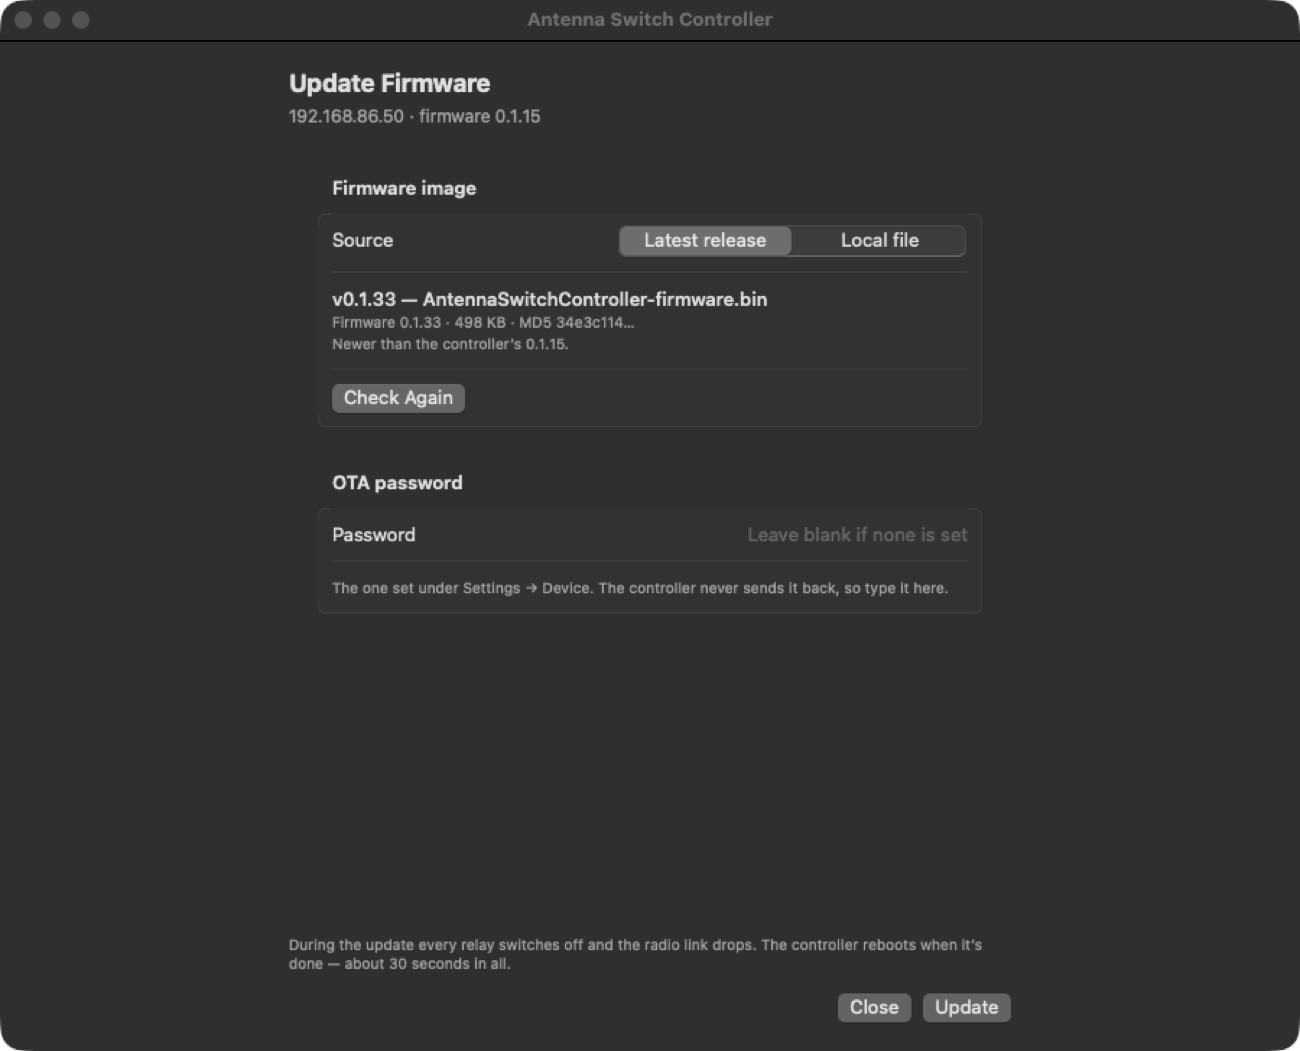
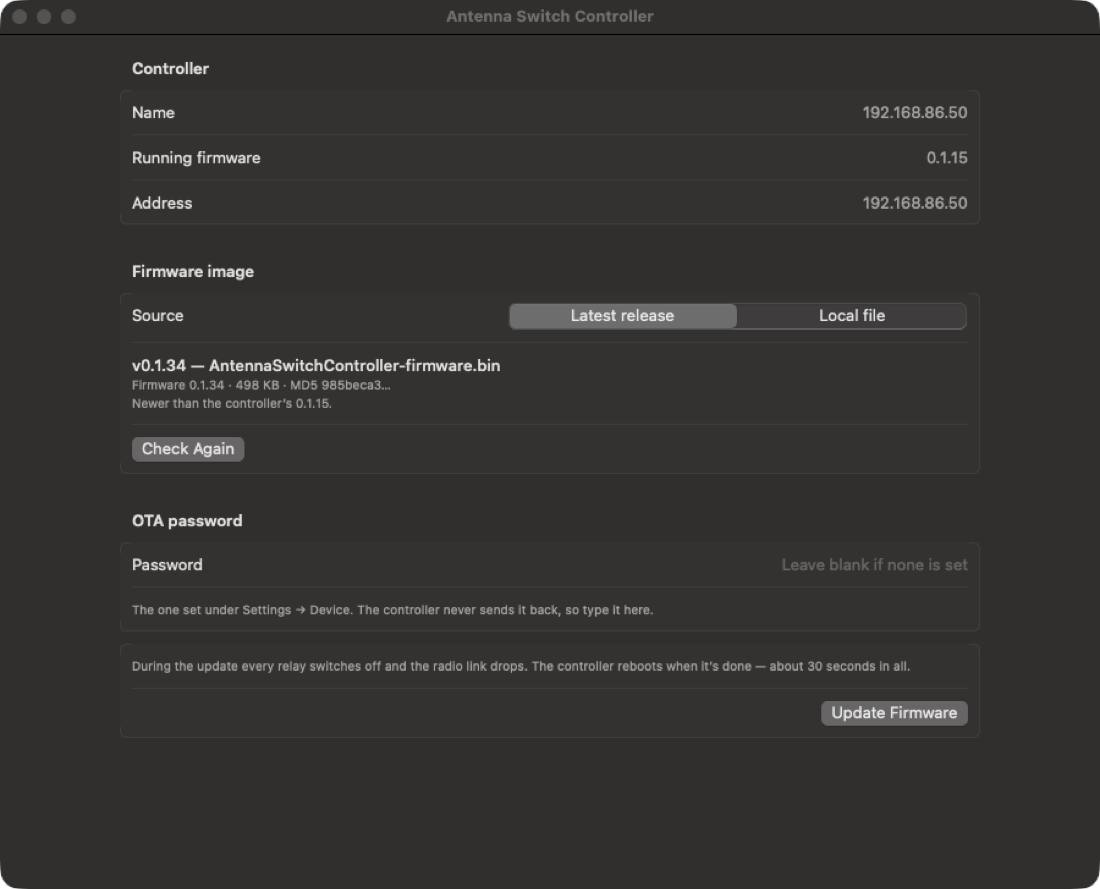
app: Firmware tab for the suite; plugin version follows the app
Firmware update reachable in the Amateur Radio Suite
- v0.1.34 put "Update Firmware…" in the window toolbar, but the suite hosts the
  plugin out-of-process inside its own window and does not show plugin toolbar
  items. It is now a Firmware tab (Dashboard / Controls / Settings / Firmware)
  in both the suite and the standalone app; no toolbar or sheet dependency.
- ControllerDetailView owns the FirmwareUpdateModel so an update in progress
  survives tab switches.

Plugin version follows the app version
- The .appex always reported 1.0 (XcodeGen wrote a literal CFBundle version)
  and plugin.json 1.0.0, so the suite's plugin list and update check never saw
  the real release.
- New scripts/version.sh is the single source (release VERSION, else latest
  git tag, else 0.0.0-dev), sourced by build-app.sh, package-signed.sh and
  make-radioplugin.sh. project.yml maps CFBundleShortVersionString /
  CFBundleVersion to MARKETING_VERSION / CURRENT_PROJECT_VERSION; plugin.json
  uses a __VERSION__ placeholder; release.yml passes VERSION to the
  .radioplugin step.
- Builds fail on any mismatch: the .radioplugin checks its .appex and
  plugin.json, package-signed checks the app == embedded .appex.

diff --git a/App/Sources/AntennaSwitchController/Views/FirmwareUpdateView.swift b/App/Sources/AntennaSwitchController/Views/FirmwareUpdateView.swift
@@ -2,70 +2,56 @@ import SwiftUI
 import UniformTypeIdentifiers
 import RadioPluginUI
 
-/// Sheet that updates a controller's firmware over the air (ArduinoOTA), from the
-/// latest GitHub release or a local `.bin`.
+/// Firmware tab: updates the controller's firmware over the air (ArduinoOTA), from
+/// the latest GitHub release or a local `.bin`. Lives in the detail pane's TabView
+/// (not a toolbar sheet) so it is reachable when the suite hosts the plugin.
 struct FirmwareUpdateView: View {
-    @StateObject private var model: FirmwareUpdateModel
-    @Environment(\.dismiss) private var dismiss
+    @ObservedObject var model: FirmwareUpdateModel
     @State private var importing = false
 
     private static let binTypes = [UTType(filenameExtension: "bin", conformingTo: .data) ?? .data]
 
-    init(controller: ControllerViewModel) {
-        _model = StateObject(wrappedValue: FirmwareUpdateModel(controller: controller))
-    }
-
     var body: some View {
-        VStack(alignment: .leading, spacing: 14) {
-            header
-            Form {
-                Section("Firmware image") {
-                    Picker("Source", selection: $model.source) {
-                        ForEach(FirmwareUpdateModel.Source.allCases) { Text($0.rawValue).tag($0) }
-                    }
-                    .pickerStyle(.segmented)
-                    sourceDetail
-                }
-                Section("OTA password") {
-                    SecureField("Password", text: $model.password, prompt: Text("Leave blank if none is set"))
-                    Text("The one set under Settings → Device. The controller never sends it back, so type it here.")
-                        .font(.caption).foregroundStyle(.secondary)
-                }
+        Form {
+            Section("Controller") {
+                LabeledContent("Name", value: model.controller.displayName)
+                LabeledContent("Running firmware", value: model.deviceVersion ?? "unknown")
+                LabeledContent("Address", value: model.target)
             }
-            .formStyle(.grouped)
+
+            Section("Firmware image") {
+                Picker("Source", selection: $model.source) {
+                    ForEach(FirmwareUpdateModel.Source.allCases) { Text($0.rawValue).tag($0) }
+                }
+                .pickerStyle(.segmented)
+                sourceDetail
+            }
             .disabled(model.isUpdating)
 
-            statusArea
-            buttons
+            Section("OTA password") {
+                SecureField("Password", text: $model.password, prompt: Text("Leave blank if none is set"))
+                Text("The one set under Settings → Device. The controller never sends it back, so type it here.")
+                    .font(.caption).foregroundStyle(.secondary)
+            }
+            .disabled(model.isUpdating)
+
+            Section {
+                statusArea
+                buttons
+            }
         }
-        .padding(20)
-        .frame(width: 540)
+        .formStyle(.grouped)
         .fileImporter(isPresented: $importing, allowedContentTypes: Self.binTypes) { result in
             switch result {
             case .success(let url): model.loadFile(url)
             case .failure(let error): model.fileImportFailed(error)
             }
         }
-        .interactiveDismissDisabled(model.isUpdating)
         .onAppear { model.prepare() }
         .onChange(of: model.source) { _, _ in model.prepare() }
     }
 
     // MARK: - Sections
-
-    private var header: some View {
-        VStack(alignment: .leading, spacing: 4) {
-            Text("Update Firmware").font(.title2.bold())
-            Text(subtitle).font(.callout).foregroundStyle(.secondary)
-        }
-    }
-
-    private var subtitle: String {
-        let name = model.controller.displayName
-        let parts = [name, "firmware \(model.deviceVersion ?? "unknown")"]
-            + (name == model.target ? [] : [model.target])
-        return parts.joined(separator: " · ")
-    }
 
     @ViewBuilder private var sourceDetail: some View {
         switch model.source {
@@ -166,20 +152,11 @@ struct FirmwareUpdateView: View {
             if model.isUpdating {
                 Button("Cancel", role: .cancel) { model.cancel() }
             } else {
-                Button(isFinished ? "Done" : "Close") { dismiss() }
-                    .keyboardShortcut(isFinished ? .defaultAction : .cancelAction)
-                if !isFinished {
-                    Button("Update") { model.startUpdate() }
-                        .keyboardShortcut(.defaultAction)
-                        .disabled(model.blockReason != nil || model.isBusy)
-                }
+                Button("Update Firmware") { model.startUpdate() }
+                    .keyboardShortcut(.defaultAction)
+                    .disabled(model.blockReason != nil || model.isBusy)
             }
         }
-    }
-
-    private var isFinished: Bool {
-        if case .succeeded = model.stage { return true }
-        return false
     }
 
     private static func bytes(_ n: Int) -> String {

diff --git a/App/Sources/AntennaSwitchController/Views/ControllerDetailView.swift b/App/Sources/AntennaSwitchController/Views/ControllerDetailView.swift
@@ -1,20 +1,27 @@
 import SwiftUI
 import RadioPluginUI
 
-/// Detail pane for one controller: Dashboard / Controls / Settings tabs, plus
-/// toolbar actions (open web portal, firmware update, reboot). Owns the polling
-/// view model.
+/// Detail pane for one controller: Dashboard / Controls / Settings / Firmware tabs,
+/// plus toolbar actions (open web portal, reboot). Owns the polling view model.
+///
+/// Anything the operator must reach in the Amateur Radio Suite belongs in a tab,
+/// not the toolbar: the suite hosts this view out-of-process (ExtensionKit) inside
+/// its own window, and plugin toolbar items are not shown there.
 struct ControllerDetailView: View {
     let controller: Controller
     @EnvironmentObject private var store: ControllersStore
     @StateObject private var vm: ControllerViewModel
+    /// Owned here (not by the tab) so an update in progress survives tab switches.
+    @StateObject private var firmware: FirmwareUpdateModel
     @State private var confirmReboot = false
-    @State private var showFirmwareUpdate = false
 
     init(controller: Controller) {
         self.controller = controller
-        _vm = StateObject(wrappedValue: ControllerViewModel(host: controller.address,
-                                                            name: controller.name))
+        // Both autoclosures run once, together, when the view is first installed,
+        // so the firmware model always drives this view's own `vm`.
+        let vm = ControllerViewModel(host: controller.address, name: controller.name)
+        _vm = StateObject(wrappedValue: vm)
+        _firmware = StateObject(wrappedValue: FirmwareUpdateModel(controller: vm))
     }
 
     var body: some View {
@@ -23,6 +30,8 @@ struct ControllerDetailView: View {
             ControlsView(vm: vm).tabItem { Label("Controls", systemImage: "dial.medium") }
             SettingsView(vm: vm, discoveredMasters: store.discovered)
                 .tabItem { Label("Settings", systemImage: "gearshape") }
+            FirmwareUpdateView(model: firmware)
+                .tabItem { Label("Firmware", systemImage: "arrow.down.circle") }
         }
         .navigationTitle(controller.name)
         .navigationSubtitle(controller.address)
@@ -34,16 +43,9 @@ struct ControllerDetailView: View {
                 Button { vm.openWeb() } label: { Label("Open Web Portal", systemImage: "safari") }
             }
             ToolbarItem {
-                Button { showFirmwareUpdate = true } label: {
-                    Label("Update Firmware…", systemImage: "arrow.down.circle")
-                }
-                .help("Update the controller’s firmware over WiFi (OTA)")
-            }
-            ToolbarItem {
                 Button { confirmReboot = true } label: { Label("Reboot", systemImage: "arrow.clockwise.circle") }
             }
         }
-        .sheet(isPresented: $showFirmwareUpdate) { FirmwareUpdateView(controller: vm) }
         .confirmationDialog("Reboot \(controller.name)?", isPresented: $confirmReboot, titleVisibility: .visible) {
             Button("Reboot", role: .destructive) { Task { await vm.reboot() } }
             Button("Cancel", role: .cancel) {}

diff --git a/App/Sources/AntennaSwitchController/App.swift b/App/Sources/AntennaSwitchController/App.swift
@@ -50,7 +50,7 @@ public struct AntennaSwitchStandaloneApp: App {
         switch pane {
         case "controls":  ControlsView(vm: vm)
         case "dashboard": DashboardView(vm: vm)
-        case "firmware":  FirmwareUpdateView(controller: vm)
+        case "firmware":  FirmwareDemoPane(vm: vm)
         default:          SettingsView(vm: vm)
         }
     }
@@ -61,4 +61,11 @@ public struct AntennaSwitchStandaloneApp: App {
 /// no way to reopen one), so the Dock icon becomes unresponsive.
 final class AppDelegate: NSObject, NSApplicationDelegate {
     func applicationShouldTerminateAfterLastWindowClosed(_ sender: NSApplication) -> Bool { true }
+}
+
+/// `ASC_DEMO=firmware`: the Firmware tab with its own long-lived model.
+private struct FirmwareDemoPane: View {
+    @StateObject private var model: FirmwareUpdateModel
+    init(vm: ControllerViewModel) { _model = StateObject(wrappedValue: FirmwareUpdateModel(controller: vm)) }
+    var body: some View { FirmwareUpdateView(model: model) }
 }

diff --git a/App/Sources/AntennaSwitchController/AntennaSwitchPlugin.swift b/App/Sources/AntennaSwitchController/AntennaSwitchPlugin.swift
@@ -15,6 +15,9 @@ public final class AntennaSwitchPlugin: RadioPlugin, PluginHostBridge {
     public static let manifest: RadioPluginManifest? = RadioPluginManifest(
         id: "antsw",
         name: "Antenna Switch",
+        // In-process manifest only (code linked into a host has no bundle of its own
+        // to read a version from). The suite loads the out-of-process .appex, whose
+        // Info.plist + plugin.json carry the release version (scripts/version.sh).
         version: "1.0",
         isolation: .inProcess,                              // first-party, linked into the host
         capabilities: [.networkClient, .bonjour, .notifications],

diff --git a/CLAUDE.md b/CLAUDE.md
@@ -152,7 +152,7 @@ at power-up, and SHOULD prefer GPIO14/12/13/4/5 for the most-used bands.
 
 - **R4.1** After the initial USB flash, the firmware SHALL support **OTA updates
   via ArduinoOTA over WiFi / mDNS** (STA mode only). Clients: `espota.py` /
-  `arduino-cli`, and the macOS app's **Update Firmware…** (same protocol, Part 2).
+  `arduino-cli`, and the macOS app's **Firmware** tab (same protocol, Part 2).
 - **R4.2** The OTA password SHALL be configurable (default empty), settable in
   the web UI; changes take effect after reboot without USB.
 - **R4.3** During an OTA update the firmware SHALL force the **safe state (all
@@ -287,6 +287,15 @@ Controllers. Mirrors the conventions of `VU3ESV/BandPassFilterControllerApp`.
   library product too) compiles the shared target under universal builds.
 - Depends on `RadioPluginKit` by **Git URL `from: "1.0.0"`** (same as the suite,
   so the whole graph resolves one identical RadioPluginKit — no path/URL clash).
+- **One version for app and plugin.** `App/scripts/version.sh` (release `VERSION`,
+  else the latest git tag, else `0.0.0-dev`) is sourced by `build-app.sh`,
+  `scripts/package-signed.sh` and `scripts/make-radioplugin.sh`. The `.appex`
+  Info.plist takes it via `$(MARKETING_VERSION)` / `$(CURRENT_PROJECT_VERSION)`
+  (project.yml), and `plugin.json` via its `__VERSION__` placeholder. The suite
+  reads a plugin's version from `plugin.json` (plugin list + update check), and
+  pluginkit reads it from the Info.plist. Both scripts fail on a mismatch. Never
+  hardcode a version in `plugin.json` or project.yml. The Swift
+  `AntennaSwitchPlugin.manifest` version is in-process only; the suite doesn't use it.
 
 ## Layout (`App/Sources/AntennaSwitchController/`)
 - `Models/` — `Band` (index order matches firmware), `Controller` (saved device,
@@ -303,8 +312,9 @@ Controllers. Mirrors the conventions of `VU3ESV/BandPassFilterControllerApp`.
   and `FirmwareUpdateModel` (one OTA update: image source → upload → reboot check).
 - `Views/` — `ContentView` (NavigationSplitView + sidebar + add-by-IP sheet),
   `ControllerDetailView` (Dashboard/Controls/Settings tabs, fresh VM per
-  selection via `.id`; toolbar: web portal, **Update Firmware…**, reboot),
-  `DashboardView`, `ControlsView`, `SettingsView`, `FirmwareUpdateView` (sheet).
+  selection via `.id`; owns the `FirmwareUpdateModel`; toolbar: web portal,
+  reboot), `DashboardView`, `ControlsView`, `SettingsView`, `FirmwareUpdateView`
+  (the **Firmware** tab).
 - `Snapshot.swift` + `ASC_DEMO` window mode — offscreen/demo rendering for the
   documentation screenshots only; not used at runtime.
 
@@ -317,6 +327,12 @@ Controllers. Mirrors the conventions of `VU3ESV/BandPassFilterControllerApp`.
   back and are only sent when the operator types a new value (blank = keep).
 - `NSLocalNetworkUsageDescription` + `NSBonjourServices` in `Resources/Info.plist`
   are required for LAN/Bonjour access on macOS.
+- **Suite-hosted UI: no toolbar actions.** The suite embeds the plugin
+  out-of-process (ExtensionKit) inside its own window, which has its own toolbar,
+  and plugin `.toolbar` items are not shown there. Anything the operator must
+  reach in the suite belongs in the view's content (a tab or a section); BPF puts
+  Reboot in Settings for the same reason. That's why OTA is a **Firmware tab**. The
+  existing toolbar items (connection dot, web portal, Reboot) are standalone-only.
 - **OTA from the app speaks ArduinoOTA (espota), not an HTTP upload**, so it works
   with the firmware already on the boards (R4.1), with no firmware change. The
   protocol is taken from the ESP8266 core 3.1.2 sources (`ArduinoOTA.cpp`,
@@ -328,12 +344,12 @@ Controllers. Mirrors the conventions of `VU3ESV/BandPassFilterControllerApp`.
     connection.
   - Firmware `onStart` forces relays safe and drops TCI, but there's **no
     `onError`**: after a failed or aborted update the relays stay off until
-    reboot, so the sheet offers **Reboot Controller**.
+    reboot, so the Firmware tab offers **Reboot Controller**.
   - The app refuses to start an update during TX/tune (R2.9).
   - The app validates the image before sending it: ESP magic `0xE9`, plus the
     `/discover` literal `{"device":"AntennaSwitchController","version":"<FW_VERSION>`
     that WebPortal.h compiles into every image, which is also where the version
-    shown in the sheet comes from.
+    shown in the tab comes from.
   - `EspOTAUploaderTests` runs the uploader against a loopback `FakeOTADevice`.
     `testLiveUploadToBoard` flashes a real board only when `ANTSW_OTA_HOST` and
     `ANTSW_OTA_BIN` are set (plus `ANTSW_OTA_PASSWORD` if the board has one).

diff --git a/README.md b/README.md
@@ -72,7 +72,7 @@ python3 ~/Library/Arduino15/packages/esp8266/hardware/esp8266/*/tools/espota.py 
   -i <board-ip> -p 8266 -f /tmp/antsw_build/Controller.ino.bin -r
 ```
 
-Or skip the command line: the macOS app's **Update Firmware…** button does the same
+Or skip the command line: the macOS app's **Firmware** tab does the same
 OTA update, from the latest release or a local `.bin` (see [The App](#the-app-macos)).
 
 On first boot (no WiFi saved) the controller starts a setup AP **`ANT-SW-Setup`**
@@ -177,8 +177,10 @@ on the network; add one by IP or pick a discovered unit:
 
 ![Add and discover](App/docs/images/app-empty-discovery.png)
 
-**Update Firmware… (OTA)** — the toolbar button flashes a controller over WiFi,
-using the same ArduinoOTA protocol as `espota.py` (no firmware change needed). Pick
+**Firmware (OTA update)** — the **Firmware** tab, next to Settings, flashes a
+controller over WiFi. It's available in the standalone app and inside the Amateur
+Radio Suite. It uses the same ArduinoOTA protocol as `espota.py` (no firmware
+change needed). Pick
 the **latest GitHub release** (downloaded and checked automatically) or a **local
 `.bin`** (e.g. your own `arduino-cli` build), enter the OTA password if one is set,
 and the app streams the image, waits for the controller to reboot, and confirms the
@@ -186,7 +188,7 @@ new version. Every image is checked first: it must be an ESP8266 image that is
 actually Antenna Switch Controller firmware, so another project's `.bin` can't be
 flashed by mistake. The update won't start while a radio is transmitting, because
 entering OTA switches every relay off. If an update fails part-way, the relays stay
-off until the controller is rebooted, and the sheet offers **Reboot Controller**.
+off until the controller is rebooted, and the tab offers **Reboot Controller**.
 
 ![Firmware update](App/docs/images/app-firmware-update.png)
 
@@ -255,8 +257,8 @@ it Gatekeeper blocks an unsigned, un-notarized bundle. On first launch, allow
 
   Each release attaches `Antenna-Switch-Controller-macOS.dmg` (the app),
   `AntennaSwitch.radioplugin` (the suite plugin), and
-  `AntennaSwitchController-firmware.bin` (flash from the app's **Update Firmware…**,
-  OTA `espota.py`, or USB). The app's update sheet downloads it straight from the
+  `AntennaSwitchController-firmware.bin` (flash from the app's **Firmware** tab,
+  OTA `espota.py`, or USB). The Firmware tab downloads it straight from the
   latest release.
 
 ### Host inside the Amateur Radio Suite

diff --git a/CHANGELOG.md b/CHANGELOG.md
@@ -11,8 +11,24 @@ work. See the [GitHub Releases] for downloads.
 [GitHub Releases]: https://github.com/VU3ESV/AntennaSwitchController/releases
 
 ## [Unreleased]
+### Fixed
+- **Firmware update is now reachable in the Amateur Radio Suite.** v0.1.34 put
+  **Update Firmware…** in the window toolbar, but the suite hosts the plugin
+  inside its own window and doesn't show plugin toolbar items. It is now a
+  **Firmware** tab next to Settings, in both the suite and the standalone app. The
+  update model is owned by the detail pane, so an update in progress survives
+  switching tabs.
+- **The suite plugin's version now follows the app version.** The `.appex`
+  previously always reported **1.0** and `plugin.json` **1.0.0**, so the suite's
+  plugin list and update check never saw the real release. `scripts/version.sh` is
+  now the single source for `build-app.sh`, `package-signed.sh` and
+  `make-radioplugin.sh`, so the app, its embedded `.appex`, and the
+  `.radioplugin`'s `.appex` + `plugin.json` all carry the release version. Each
+  build fails if any of them doesn't match.
+
+## [v0.1.34] — 2026-11-24
 ### Added
-- **OTA firmware update from the app.** A new **Update Firmware…** toolbar button
+- **OTA firmware update from the app** (now the **Firmware** tab — see above). It
   flashes a controller over WiFi using ArduinoOTA, the same protocol and MD5
   challenge/response as `espota.py`, so it works with the firmware already on the
   boards. The image comes from the **latest GitHub release** (downloaded
